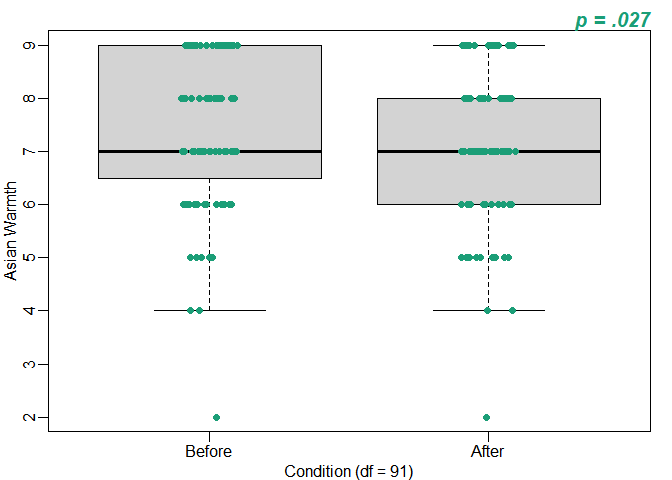
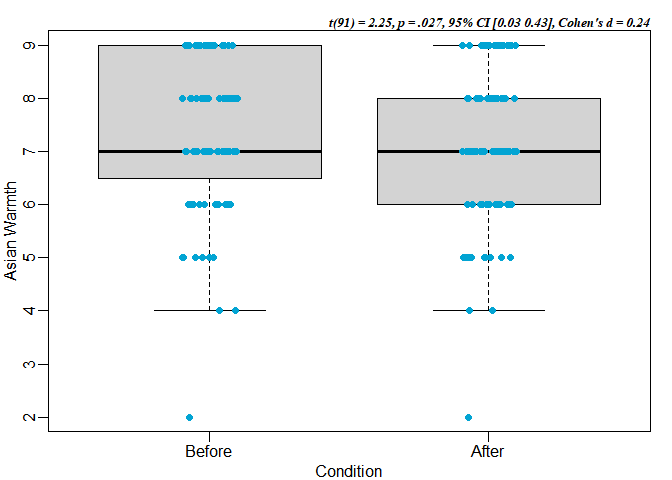
caption

diff --git a/po1.md b/po1.md
@@ -20,11 +20,23 @@ library(dplyr)
     ##     intersect, setdiff, setequal, union
 
 ``` r
+library(effsize)
+library(rstatix)
+```
+
+    ## 
+    ## Attaching package: 'rstatix'
+
+    ## The following object is masked from 'package:stats':
+    ## 
+    ##     filter
+
+``` r
 Adata <- read_sav("C:/Users/Colin/Documents/GitHub/po1/AQ.sav")
 Adf <- Adata %>% 
   filter(Asian == "1" & Conditions == "Ingroup")
 
-t.test(Adf$Q95, Adf$Asian_Warmth, paired = TRUE, alternative = "two.sided")
+t.test(Adf$Q95, Adf$Asian_Warmth, paired = TRUE, alternative = "two.sided") 
 ```
 
     ## 
@@ -68,9 +80,9 @@ After <-Adf$Asian_Warmth
 Adf2 <- data.frame(Before = Before, After = After)
          ggpaired(Adf2, cond1 = "Before", cond2 = "After",
          fill = "condition", line.color = "gray", line.size = 0.3,
-         palette = "jco", xlab = "Condition (df = 91)", ylab = "Asian Warmth") + 
-           scale_y_continuous(limit = c(0, 10)) +
- stat_compare_means(method = "t.test", paired = TRUE)
+         palette = "jco", xlab = "Condition", ylab = "Asian Warmth", caption = "t(91) = 2.25, 95% CI [0.03 0.43], Cohen's d = 0.24
+") +      scale_y_continuous(limit = c(0, 10)) +
+ stat_compare_means(vjust = 0.5, method = "t.test", paired = TRUE)
 ```
 
     ## Warning: `gather_()` was deprecated in tidyr 1.2.0.
@@ -94,9 +106,10 @@ Wdf2 <- data.frame(Before = Before, After = After)
 Wdf2 <- Wdf2[complete.cases(Wdf2),]
          ggpaired(Wdf2, cond1 = "Before", cond2 = "After",
          fill = "condition", line.color = "gray", line.size = 0.3,
-         palette = "jco", xlab = "Condition (df = 88)", ylab = "White Warmth") +
+         palette = "jco", xlab = "Condition", ylab = "White Warmth", caption = "t(88) = -0.44, 95% CI [-0.19, 0.12], Cohen's d = -0.05
+") +
                       scale_y_continuous(limit = c(0, 10)) +
- stat_compare_means(method = "t.test", paired = TRUE, na.rm = TRUE)
+ stat_compare_means(vjust = 0.5, method = "t.test", paired = TRUE, na.rm = TRUE)
 ```
 
     ## Warning: attributes are not identical across measure variables;
@@ -114,8 +127,8 @@ library(tidyverse)
     ## ✔ tidyr   1.2.1     ✔ stringr 1.5.0
     ## ✔ readr   2.1.3     ✔ forcats 0.5.2
     ## ── Conflicts ────────────────────────────────────────── tidyverse_conflicts() ──
-    ## ✖ dplyr::filter() masks stats::filter()
-    ## ✖ dplyr::lag()    masks stats::lag()
+    ## ✖ rstatix::filter() masks dplyr::filter(), stats::filter()
+    ## ✖ dplyr::lag()      masks stats::lag()
 
 ``` r
 library(rafalib)
@@ -123,7 +136,7 @@ library(rafalib)
 mypar(1,1)
 dat <- list(Before=Adf$Q95, After=Adf$Asian_Warmth)
 dat %>%
-   boxplot(xlab = "Condition (df = 91)",
+   boxplot(xlab = "Condition",
            ylab = "Asian Warmth",
            cex = 0)
  dat %>%
@@ -132,9 +145,9 @@ dat %>%
      method = "jitter",
      pch = 16,
      add = TRUE,
-     col = 1
-   )
-mtext(text="p = .027", side = 3, adj = 1, col = 1, cex = 1.25, font = 4)
+     col = "#02a4d3"
+   ) 
+mtext(text="t(91) = 2.25, p = .027, 95% CI [0.03 0.43], Cohen's d = 0.24", side = 3, adj = 1, col = "black", cex = 0.8, font = 9)
 ```
 
 ![](po1_files/figure-gfm/unnamed-chunk-4-1.png)<!-- --> \#White
@@ -172,7 +185,7 @@ list(Wdf)
 
 ``` r
 Wdf2 %>%
-   boxplot(xlab = "Condition (df = 88)",
+   boxplot(xlab = "Condition",
            ylab = "White Warmth",
            cex = 0)
  Wdf2 %>%
@@ -181,9 +194,9 @@ Wdf2 %>%
      method = "jitter",
      pch = 16,
      add = TRUE,
-     col = 1
+     col = "#02a4d3"
    )
-mtext(text="p = .664", side = 3, adj = 1, col = 1, cex = 1.25, font = 4)
+mtext(text= "t(88) = -0.44, p = .664, 95% CI [-0.19, 0.12], Cohen's d = -0.05", side = 3, adj = 1, col = "black", cex = 0.8, font = 9)
 ```
 
 ![](po1_files/figure-gfm/unnamed-chunk-5-1.png)<!-- -->
